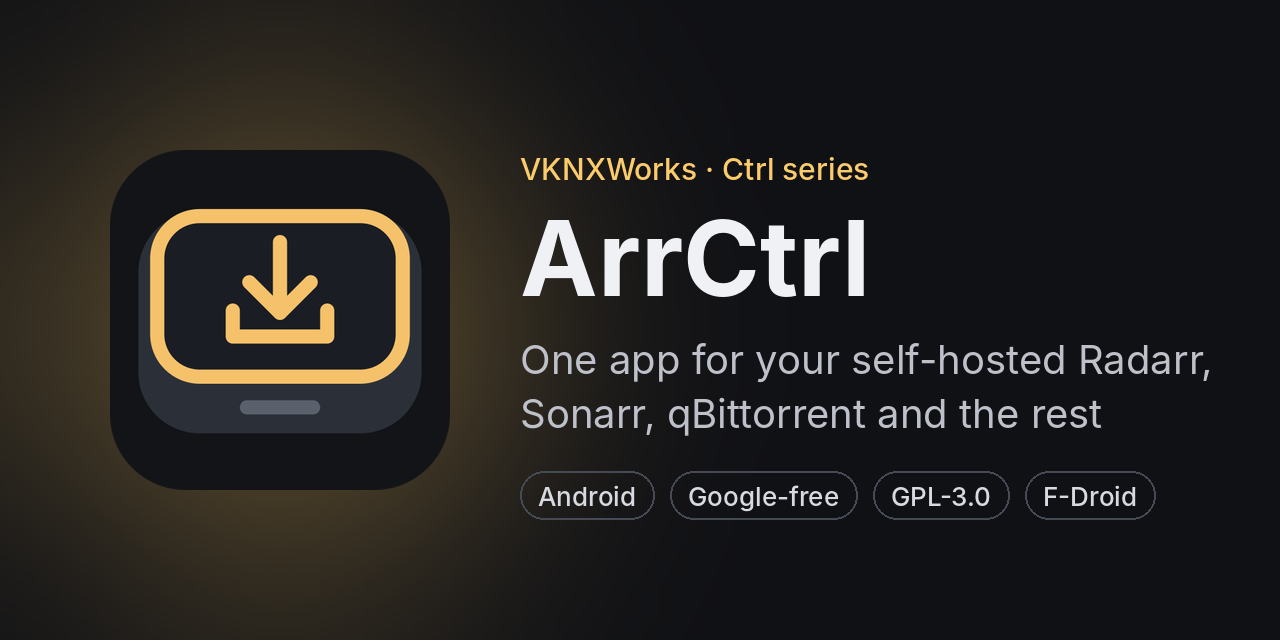
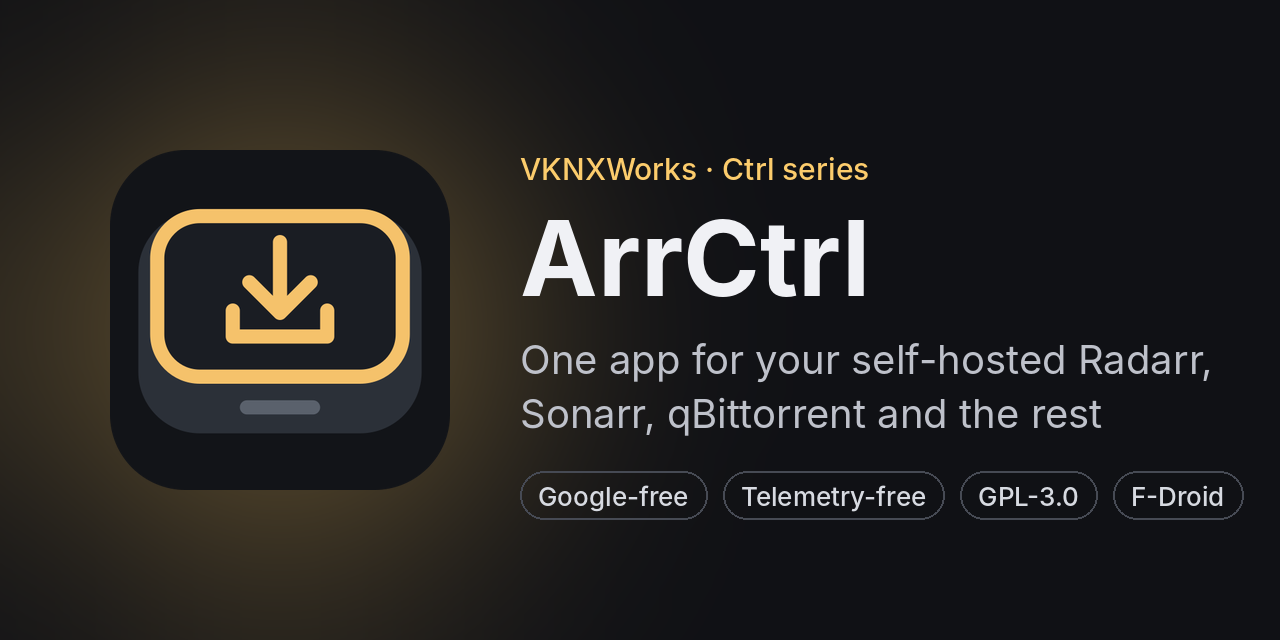
ArrCtrl 1.0.4: telemetry-free, usage stats removed
- Remove the opt-in Aptabase usage stats: Telemetry.kt, the one-time
  question, the Settings group, every tracking call and screen-view event,
  and their strings
- Delete the two stored stats settings on first start after the update
- Drop the APTABASE_KEY/APTABASE_HOST build config and the CI key check
- README: Telemetry-free badge and a Privacy section in place of Usage stats
- Link preview image with the Telemetry-free tag

Claude-Session: https://claude.ai/code/session_01EwhEpZ1DKRJef9Cqeiv5g2

Changed region(s): [[0.4062, 0.7188, 0.9688, 0.8125]]

diff --git a/app/src/main/java/com/vknxworks/arrctrl/data/settings/AppSettings.kt b/app/src/main/java/com/vknxworks/arrctrl/data/settings/AppSettings.kt
@@ -17,6 +17,7 @@ import kotlinx.coroutines.flow.StateFlow
 import kotlinx.coroutines.flow.first
 import kotlinx.coroutines.flow.map
 import kotlinx.coroutines.flow.stateIn
+import kotlinx.coroutines.launch
 
 val Context.appDataStore: DataStore<Preferences> by preferencesDataStore(name = "arrctrl")
 
@@ -61,10 +62,6 @@ data class AppSettings(
     val pushEnabled: Boolean = false,
     /** The UnifiedPush endpoint your servers post to; set by the distributor. */
     val pushEndpoint: String? = null,
-    /** Opt-in anonymous usage stats (off until the user says yes). */
-    val usageStats: Boolean = false,
-    /** Whether the one-time usage stats question has been answered. */
-    val usageStatsAsked: Boolean = false,
 )
 
 /** Events notified out of the box; see NotifyEvent. */
@@ -91,8 +88,18 @@ class SettingsRepository(private val context: Context, scope: CoroutineScope) {
         val notifyOngoing = booleanPreferencesKey("notify_ongoing")
         val push = booleanPreferencesKey("push_enabled")
         val pushEndpoint = stringPreferencesKey("push_endpoint")
-        val usageStats = booleanPreferencesKey("usage_stats")
-        val usageStatsAsked = booleanPreferencesKey("usage_stats_asked")
+    }
+
+    init {
+        // ArrCtrl 1.0.4 removed the optional anonymous stats. Delete the two settings they used (their
+        // keys start with "usage_"), so nothing from them stays on the phone after the update.
+        scope.launch {
+            runCatching {
+                context.appDataStore.edit { p ->
+                    p.asMap().keys.filter { it.name.startsWith("usage_") }.forEach { p.remove(booleanPreferencesKey(it.name)) }
+                }
+            }
+        }
     }
 
     val settings: StateFlow<AppSettings> = context.appDataStore.data
@@ -119,8 +126,6 @@ class SettingsRepository(private val context: Context, scope: CoroutineScope) {
         notifyOngoing = this[K.notifyOngoing] ?: false,
         pushEnabled = this[K.push] ?: false,
         pushEndpoint = this[K.pushEndpoint],
-        usageStats = this[K.usageStats] ?: false,
-        usageStatsAsked = this[K.usageStatsAsked] ?: false,
     )
 
     /** Every stored change, without the placeholder value [settings] starts with. */
@@ -151,8 +156,6 @@ class SettingsRepository(private val context: Context, scope: CoroutineScope) {
             p[K.notifyOngoing] = s.notifyOngoing
             p[K.push] = s.pushEnabled
             if (s.pushEndpoint != null) p[K.pushEndpoint] = s.pushEndpoint else p.remove(K.pushEndpoint)
-            p[K.usageStats] = s.usageStats
-            p[K.usageStatsAsked] = s.usageStatsAsked
         }
     }
 

diff --git a/app/src/main/java/com/vknxworks/arrctrl/ui/more/ProwlarrScreen.kt b/app/src/main/java/com/vknxworks/arrctrl/ui/more/ProwlarrScreen.kt
@@ -198,7 +198,6 @@ private fun IndexerSheet(api: ProwlarrApi, i: Indexer, onDismiss: () -> Unit) {
 @Composable
 private fun SearchTab(server: Server, api: ProwlarrApi) {
     val context = LocalContext.current
-    val telemetry = context.container.telemetry
     val scope = rememberCoroutineScope()
     val focus = LocalFocusManager.current
     var query by rememberSaveable { mutableStateOf("") }
@@ -212,7 +211,7 @@ private fun SearchTab(server: Server, api: ProwlarrApi) {
         if (query.isBlank()) return
         focus.clearFocus(); searching = true; error = null
         scope.launch {
-            runCatching { api.search(query) }.onSuccess { results = it.sortedByDescending { r -> r.seeders ?: -1 }; telemetry.action("search", "prowlarr") }.onFailure { error = it.toTestResult() }
+            runCatching { api.search(query) }.onSuccess { results = it.sortedByDescending { r -> r.seeders ?: -1 } }.onFailure { error = it.toTestResult() }
             searching = false
         }
     }
@@ -273,7 +272,7 @@ private fun SearchTab(server: Server, api: ProwlarrApi) {
                     confirm = null
                     scope.launch {
                         runCatching { api.grab(s) }
-                            .onSuccess { sent = sent + s.guid; telemetry.action("grab", "prowlarr"); Toast.makeText(context, sentText, Toast.LENGTH_SHORT).show() }
+                            .onSuccess { sent = sent + s.guid; Toast.makeText(context, sentText, Toast.LENGTH_SHORT).show() }
                             .onFailure { Toast.makeText(context, it.message ?: "", Toast.LENGTH_LONG).show() }
                     }
                 }) { Text(stringResource(R.string.prowlarr_grab)) }

diff --git a/app/src/main/java/com/vknxworks/arrctrl/ui/nav/AppRoot.kt b/app/src/main/java/com/vknxworks/arrctrl/ui/nav/AppRoot.kt
@@ -65,7 +65,6 @@ import com.vknxworks.arrctrl.ui.servers.ServerEditScreen
 import com.vknxworks.arrctrl.ui.settings.AccountScreen
 import com.vknxworks.arrctrl.ui.settings.NotificationsScreen
 import com.vknxworks.arrctrl.ui.settings.SettingsScreen
-import com.vknxworks.arrctrl.ui.settings.UsageStatsPrompt
 import com.vknxworks.arrctrl.ui.activity.ActivityScreen
 import com.vknxworks.arrctrl.ui.activity.AddTorrentScreen
 import com.vknxworks.arrctrl.ui.activity.ManualImportScreen
@@ -151,14 +150,6 @@ private fun MainScaffold() {
         }
     }
 
-    // Usage stats (only if the user opted in): the kind of screen, never the movie, series, torrent or server it shows.
-    val entryId = backStack?.id
-    val screen = dest?.route?.let(::screenName)
-    LaunchedEffect(entryId) {
-        if (screen != null) c.telemetry.track("screen_viewed", mapOf("screen" to screen))
-    }
-    UsageStatsPrompt()
-
     CompositionLocalProvider(LocalNavigator provides navigator) {
         BoxWithConstraints(Modifier.fillMaxSize().background(MaterialTheme.colorScheme.background)) {
             if (maxWidth >= 600.dp) {
@@ -188,13 +179,6 @@ private fun MainScaffold() {
         }
     }
 }
-
-/**
- * "com.vknxworks.arrctrl.ui.nav.MovieRoute/{serverId}/{movieId}?…" -> "Movie". Only the route's class name:
- * arguments (server IDs, movie and series IDs, titles, torrent hashes, links) are dropped.
- */
-private fun screenName(route: String): String =
-    route.substringBefore('/').substringBefore('?').substringAfterLast('.').removeSuffix("Route")
 
 /**
  * Phones: content runs edge to edge and scrolls under a floating glass island.

diff --git a/app/src/main/java/com/vknxworks/arrctrl/ui/series/SeasonScreen.kt b/app/src/main/java/com/vknxworks/arrctrl/ui/series/SeasonScreen.kt
@@ -222,7 +222,7 @@ fun SeasonScreen(serverId: String, seriesId: Int, season: Int) {
             title = { Text(stringResource(R.string.season_search_title, seasonName(season))) },
             text = { Text(stringResource(R.string.season_search_body)) },
             confirmButton = {
-                TextButton(onClick = { confirmSearch = false; act(R.string.movie_search_started) { api.searchSeason(seriesId, season); c.telemetry.action("search", "sonarr") } }) {
+                TextButton(onClick = { confirmSearch = false; act(R.string.movie_search_started) { api.searchSeason(seriesId, season) } }) {
                     Text(stringResource(R.string.season_search))
                 }
             },
@@ -361,7 +361,7 @@ private fun EpisodeSheet(
 
             Spacer(Modifier.size(4.dp))
             FilledTonalButton(
-                onClick = { act(R.string.movie_search_started) { api.searchEpisodes(listOf(e.id)); context.container.telemetry.action("search", "sonarr") } },
+                onClick = { act(R.string.movie_search_started) { api.searchEpisodes(listOf(e.id)) } },
                 shape = CircleShape,
                 modifier = Modifier.fillMaxWidth(),
             ) {

diff --git a/app/src/main/java/com/vknxworks/arrctrl/ui/series/SeriesDetailScreen.kt b/app/src/main/java/com/vknxworks/arrctrl/ui/series/SeriesDetailScreen.kt
@@ -198,7 +198,7 @@ fun SeriesDetailScreen(serverId: String, seriesId: Int) {
                 Modifier.fillMaxWidth().horizontalScroll(rememberScrollState()).padding(horizontal = Gutter, vertical = 8.dp),
                 horizontalArrangement = Arrangement.spacedBy(4.dp),
             ) {
-                ActionButton(Icons.Outlined.Search, stringResource(R.string.series_search_all)) { act(R.string.movie_search_started) { api.searchSeries(s.id); c.telemetry.action("search", "sonarr") } }
+                ActionButton(Icons.Outlined.Search, stringResource(R.string.series_search_all)) { act(R.string.movie_search_started) { api.searchSeries(s.id) } }
                 ActionButton(Icons.Outlined.Refresh, stringResource(R.string.movie_refresh)) { act(R.string.movie_refresh_started) { api.refresh(s.id) } }
                 if (s.episodeFileCount > 0) ActionButton(Icons.Outlined.DriveFileRenameOutline, stringResource(R.string.movie_rename)) { renaming = true }
                 if (s.tmdbId != null && CtrlApps.installed(context, CtrlApps.SEERRCTRL)) {

diff --git a/app/src/main/java/com/vknxworks/arrctrl/ui/common/ReleasesScreen.kt b/app/src/main/java/com/vknxworks/arrctrl/ui/common/ReleasesScreen.kt
@@ -92,7 +92,6 @@ fun ReleasesScreen(title: String, type: ServiceType, load: suspend () -> List<Re
     var hideRejected by rememberSaveable { mutableStateOf(false) }
     var confirm by remember { mutableStateOf<Release?>(null) }
     var grabbed by remember { mutableStateOf<Set<String>>(emptySet()) }
-    val telemetry = context.container.telemetry
 
     LaunchedEffect(attempt) {
         releases = null
@@ -106,7 +105,6 @@ fun ReleasesScreen(title: String, type: ServiceType, load: suspend () -> List<Re
             runCatching { grab(r) }
                 .onSuccess {
                     grabbed = grabbed + r.guid
-                    telemetry.action("grab", type.id)
                     Toast.makeText(context, sentText, Toast.LENGTH_SHORT).show()
                 }
                 .onFailure { Toast.makeText(context, it.message ?: "", Toast.LENGTH_LONG).show() }

diff --git a/app/src/main/java/com/vknxworks/arrctrl/ui/movies/MovieScreen.kt b/app/src/main/java/com/vknxworks/arrctrl/ui/movies/MovieScreen.kt
@@ -182,7 +182,7 @@ fun MovieScreen(serverId: String, movieId: Int) {
                 Modifier.fillMaxWidth().horizontalScroll(rememberScrollState()).padding(horizontal = Gutter, vertical = 8.dp),
                 horizontalArrangement = Arrangement.spacedBy(4.dp),
             ) {
-                Action(Icons.Outlined.Search, stringResource(R.string.movie_search)) { act(R.string.movie_search_started) { api.search(listOf(mv.id)); c.telemetry.action("search", "radarr") } }
+                Action(Icons.Outlined.Search, stringResource(R.string.movie_search)) { act(R.string.movie_search_started) { api.search(listOf(mv.id)) } }
                 Action(Icons.Outlined.ManageSearch, stringResource(R.string.movie_interactive)) {
                     nav.navigate(MovieReleasesRoute(server.id, mv.id, mv.title))
                 }

diff --git a/app/src/main/java/com/vknxworks/arrctrl/AppContainer.kt b/app/src/main/java/com/vknxworks/arrctrl/AppContainer.kt
@@ -14,7 +14,6 @@ import com.vknxworks.arrctrl.data.server.Server
 import com.vknxworks.arrctrl.data.server.ServerStatus
 import com.vknxworks.arrctrl.data.server.ServerStore
 import com.vknxworks.arrctrl.data.settings.SettingsRepository
-import com.vknxworks.arrctrl.data.telemetry.Telemetry
 import kotlinx.coroutines.CoroutineScope
 import kotlinx.coroutines.Dispatchers
 import kotlinx.coroutines.SupervisorJob
@@ -25,7 +24,6 @@ class AppContainer(val context: Context) {
     val appScope = CoroutineScope(SupervisorJob() + Dispatchers.Default)
 
     val settings = SettingsRepository(context, appScope)
-    val telemetry = Telemetry(context, settings, appScope)
     val http = Http()
     val servers = ServerStore(context, appScope)
     val status = ServerStatus(http, appScope)

diff --git a/app/src/main/java/com/vknxworks/arrctrl/ui/settings/SettingsScreens.kt b/app/src/main/java/com/vknxworks/arrctrl/ui/settings/SettingsScreens.kt
@@ -216,16 +216,6 @@ fun SettingsScreen() {
                     checked = s.dynamicColor,
                 ) { v -> update { it.copy(dynamicColor = v) } }
             }
-
-            if (c.telemetry.available) {
-                Group(stringResource(R.string.usage_stats), footer = stringResource(R.string.usage_stats_description)) {
-                    GroupSwitch(
-                        stringResource(R.string.usage_stats_switch),
-                        stringResource(R.string.usage_stats_switch_subtitle),
-                        checked = s.usageStats,
-                    ) { v -> update { it.copy(usageStats = v, usageStatsAsked = true) } }
-                }
-            }
         }
     }
 }

diff --git a/app/src/main/java/com/vknxworks/arrctrl/ui/series/SeriesScreen.kt b/app/src/main/java/com/vknxworks/arrctrl/ui/series/SeriesScreen.kt
@@ -427,7 +427,7 @@ private fun SelectionActionDialog(action: SelectionAction, model: SeriesModel, o
                             when (action) {
                                 SelectionAction.MONITOR -> api.editor(ids, monitored = true)
                                 SelectionAction.UNMONITOR -> api.editor(ids, monitored = false)
-                                else -> { api.searchMany(ids); c.telemetry.action("search", "sonarr") }
+                                else -> api.searchMany(ids)
                             }
                         }
                     }) { Text(stringResource(R.string.ok)) }

diff --git a/app/src/main/java/com/vknxworks/arrctrl/ui/movies/MoviesScreen.kt b/app/src/main/java/com/vknxworks/arrctrl/ui/movies/MoviesScreen.kt
@@ -415,7 +415,7 @@ private fun BulkDialog(action: SelectionAction, model: MoviesModel, onDismiss: (
                             when (action) {
                                 SelectionAction.MONITOR -> api.editor(ids, monitored = true)
                                 SelectionAction.UNMONITOR -> api.editor(ids, monitored = false)
-                                else -> { api.search(ids); c.telemetry.action("search", "radarr") }
+                                else -> api.search(ids)
                             }
                         }
                     }) { Text(stringResource(R.string.ok)) }

diff --git a/app/src/main/java/com/vknxworks/arrctrl/ui/series/AddSeriesScreen.kt b/app/src/main/java/com/vknxworks/arrctrl/ui/series/AddSeriesScreen.kt
@@ -245,7 +245,6 @@ private fun AddSeriesSheet(api: SonarrApi, s: LookupSeries, onDismiss: () -> Uni
                         scope.launch {
                             runCatching { api.add(s, p, f, monitor, seriesType, seasonFolder, searchMissing, searchCutoff, chosenTags.toList()) }
                                 .onSuccess {
-                                    context.container.telemetry.action("add", "sonarr")
                                     Toast.makeText(context, addedText, Toast.LENGTH_SHORT).show()
                                     onAdded(it?.id)
                                 }
